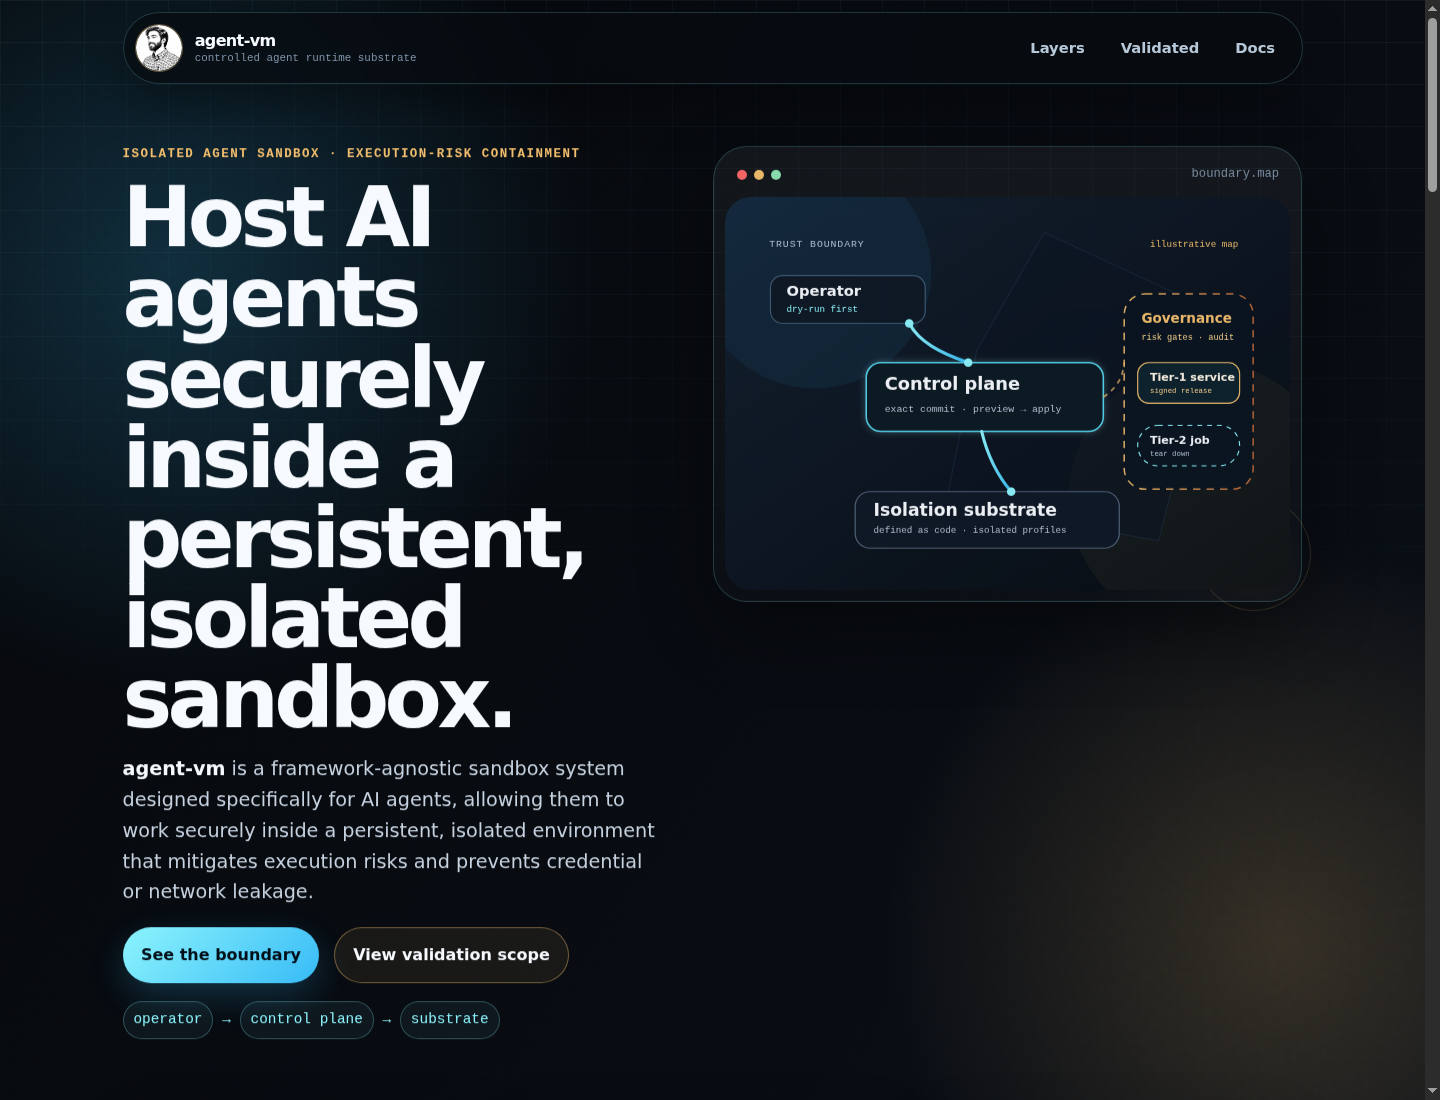
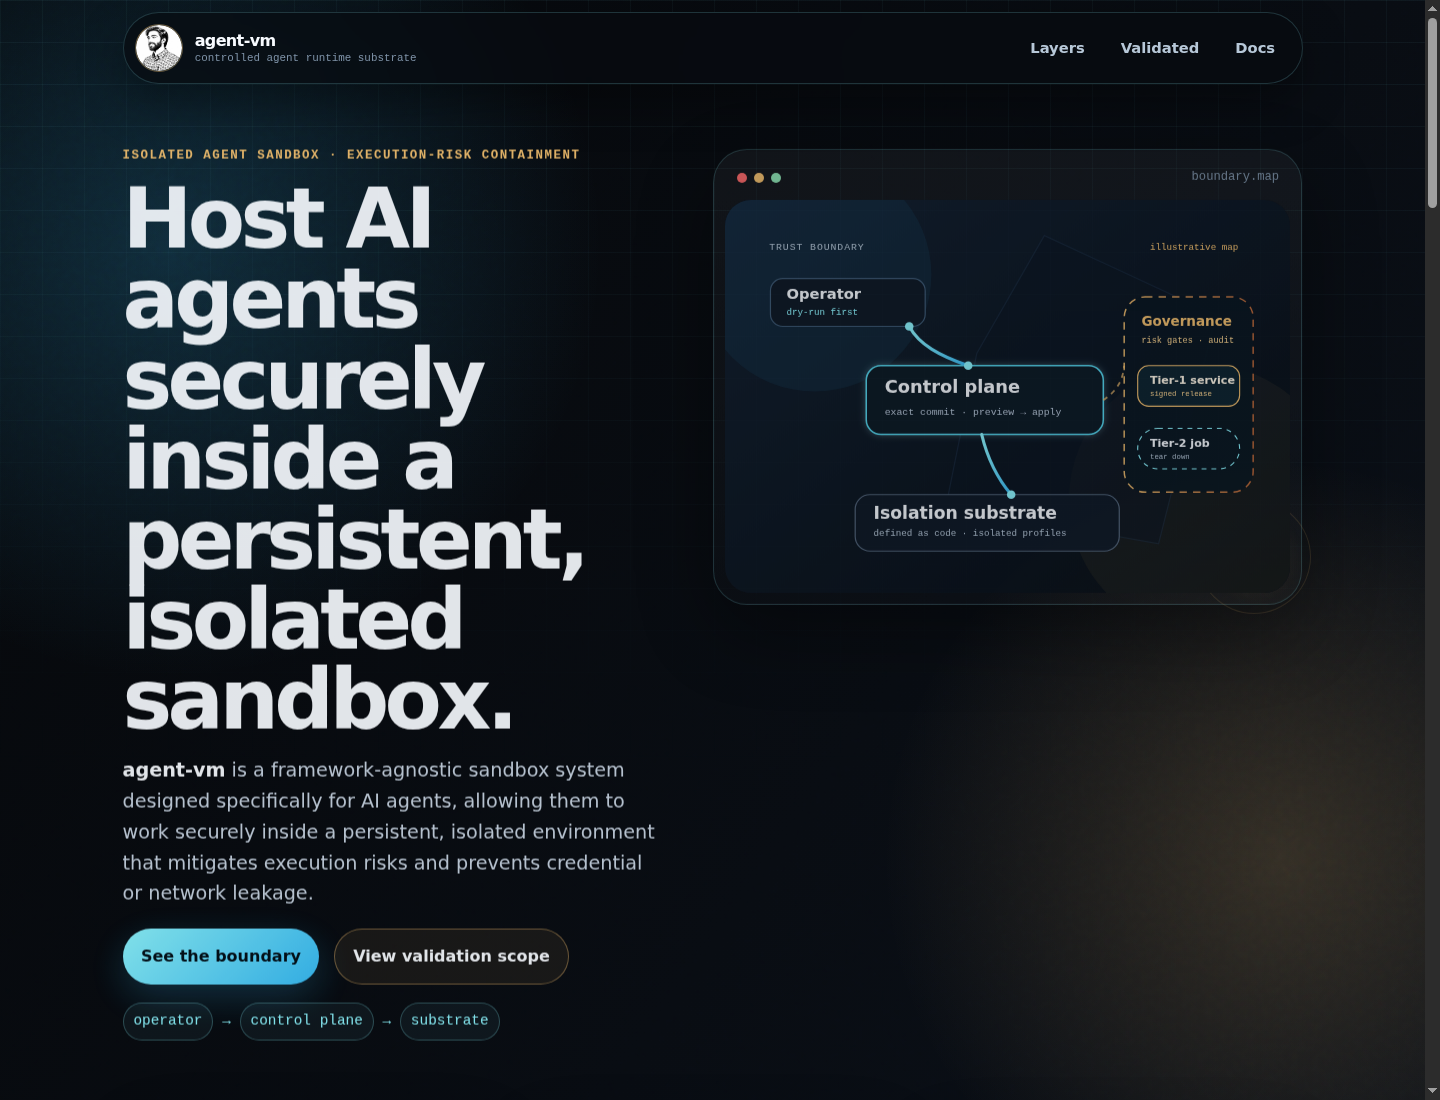
feat(ux): optimize heading sizes and wording to restrict line wraps to two lines

diff --git a/site/styles.css b/site/styles.css
@@ -262,7 +262,7 @@ h1 {
 
 h2 {
   margin-bottom: 1rem;
-  font-size: clamp(2.35rem, 5vw, 5.2rem);
+  font-size: clamp(1.85rem, 4vw, 3.4rem);
 }
 
 h3 {
@@ -507,12 +507,12 @@ code {
 }
 
 .section-heading {
-  max-width: 880px;
+  max-width: 940px;
   margin-bottom: clamp(1.8rem, 5vw, 3rem);
 }
 
 .section-heading.narrow {
-  max-width: 720px;
+  max-width: 800px;
   margin-inline: auto;
   text-align: center;
 }

diff --git a/site/index.html b/site/index.html
@@ -140,7 +140,7 @@
       <section id="layers" class="layers" aria-labelledby="layers-title">
         <div class="section-heading narrow">
           <p class="eyebrow">three layers + governance</p>
-          <h2 id="layers-title">Every layer assumes the one above it can fail.</h2>
+          <h2 id="layers-title">Each layer assumes the one above can fail.</h2>
         </div>
         <div class="layer-stack">
           <article class="layer-card control">
@@ -221,7 +221,7 @@
       <section class="workloads" aria-labelledby="workloads-title">
         <div class="section-heading narrow">
           <p class="eyebrow">reference workloads</p>
-          <h2 id="workloads-title">Two digital worker shapes, one hosting contract.</h2>
+          <h2 id="workloads-title">Two worker shapes, one hosting contract.</h2>
         </div>
         <div class="workload-grid">
           <article>